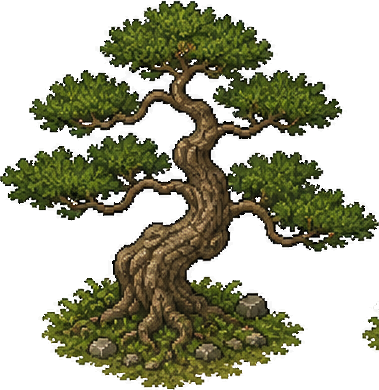
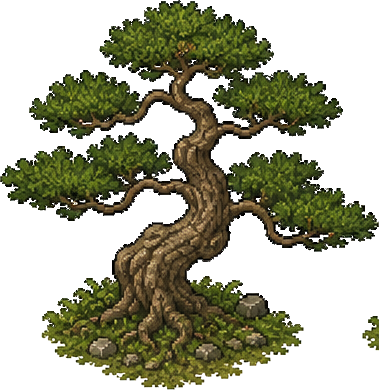
Árboles: rehacer limpieza — matar el contorno claro a cualquier alpha
El halo persistía en píxeles gris-claro SEMITRANSPARENTES (alpha 25-90,
RGB ~188) que la pasada anterior (op>140) no tocaba, y el des-matte previo
contaba ese gris como follaje y lo sangraba hacia fuera. Reconstruido desde
el pliego: key del blanco + recolor de TODO píxel gris-claro/desaturado
(cualquier alpha) al color de follaje vecino oscurecido, protegiendo las
rocas de la base. Verificado sobre negro: sin orla. Bump SPRITE_VER 57→58.

diff --git a/assets/js/hac-iso.js b/assets/js/hac-iso.js
@@ -22,7 +22,7 @@ const HacIso = (function () {
   const TOP_MARGIN = 132;             // hueco arriba para edificios altos, murallas y torres
   const PAD_X = 40;                   // margen lateral para murallas y paseo de ronda
   const SPRITE_BASE = 'assets/img/iso/';
-  const SPRITE_VER = '57';  // súbelo al regenerar los PNG (cache-busting)
+  const SPRITE_VER = '58';  // súbelo al regenerar los PNG (cache-busting)
 
   // ── Color helpers (para el placeholder) ─────────────────────────────────
   const { hexToRgb, clamp255: cl } = HacUtil;
